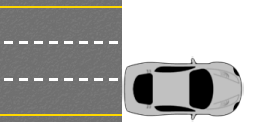
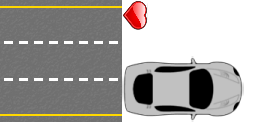
add heart to images

Changed region(s): [[0.4688, 0.0, 0.5938, 0.25]]

diff --git a/mobile/src/main/java/com/sap/dkom/fiorirace/Assets.java b/mobile/src/main/java/com/sap/dkom/fiorirace/Assets.java
@@ -8,11 +8,13 @@ public class Assets {
     public static TextureAtlas atlas;
     public static TextureRegion car;
     public static TextureRegion road;
+    public static TextureRegion heart;
 
     public static void load() {
         atlas = new TextureAtlas(Gdx.files.internal("images.atlas"));
         car = atlas.findRegion("car");
         road = atlas.findRegion("road");
+        heart = atlas.findRegion("heart");
     }
 
     public static void dispose() {

diff --git a/mobile/src/main/java/com/sap/dkom/fiorirace/SplashScreen.java b/mobile/src/main/java/com/sap/dkom/fiorirace/SplashScreen.java
@@ -1,0 +1,7 @@
+package com.sap.dkom.fiorirace;
+
+/**
+ * Created by I040335 on 02/02/2015.
+ */
+public class SplashScreen {
+}

diff --git a/mobile/src/main/java/com/sap/dkom/fiorirace/SplashGame.java b/mobile/src/main/java/com/sap/dkom/fiorirace/SplashGame.java
@@ -1,0 +1,7 @@
+package com.sap.dkom.fiorirace;
+
+/**
+ * Created by I040335 on 02/02/2015.
+ */
+public class SplashGame {
+}
